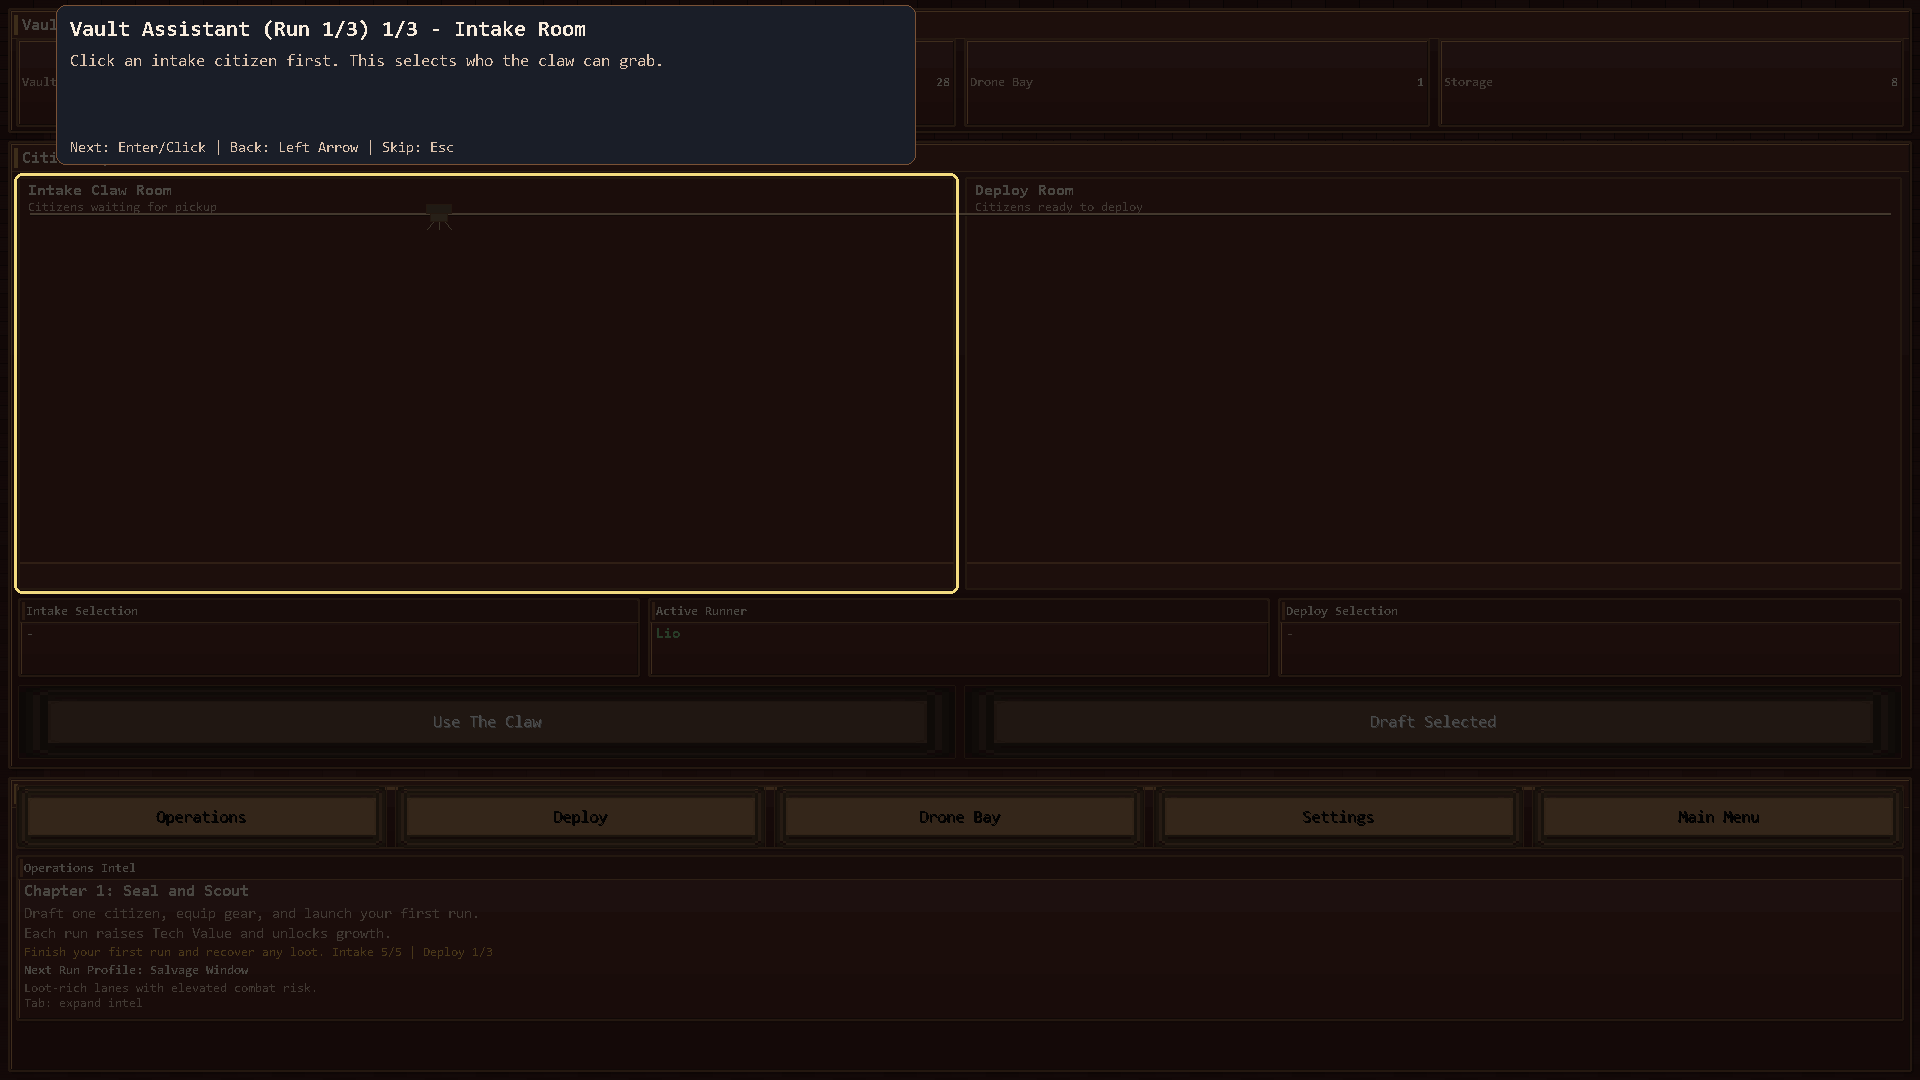
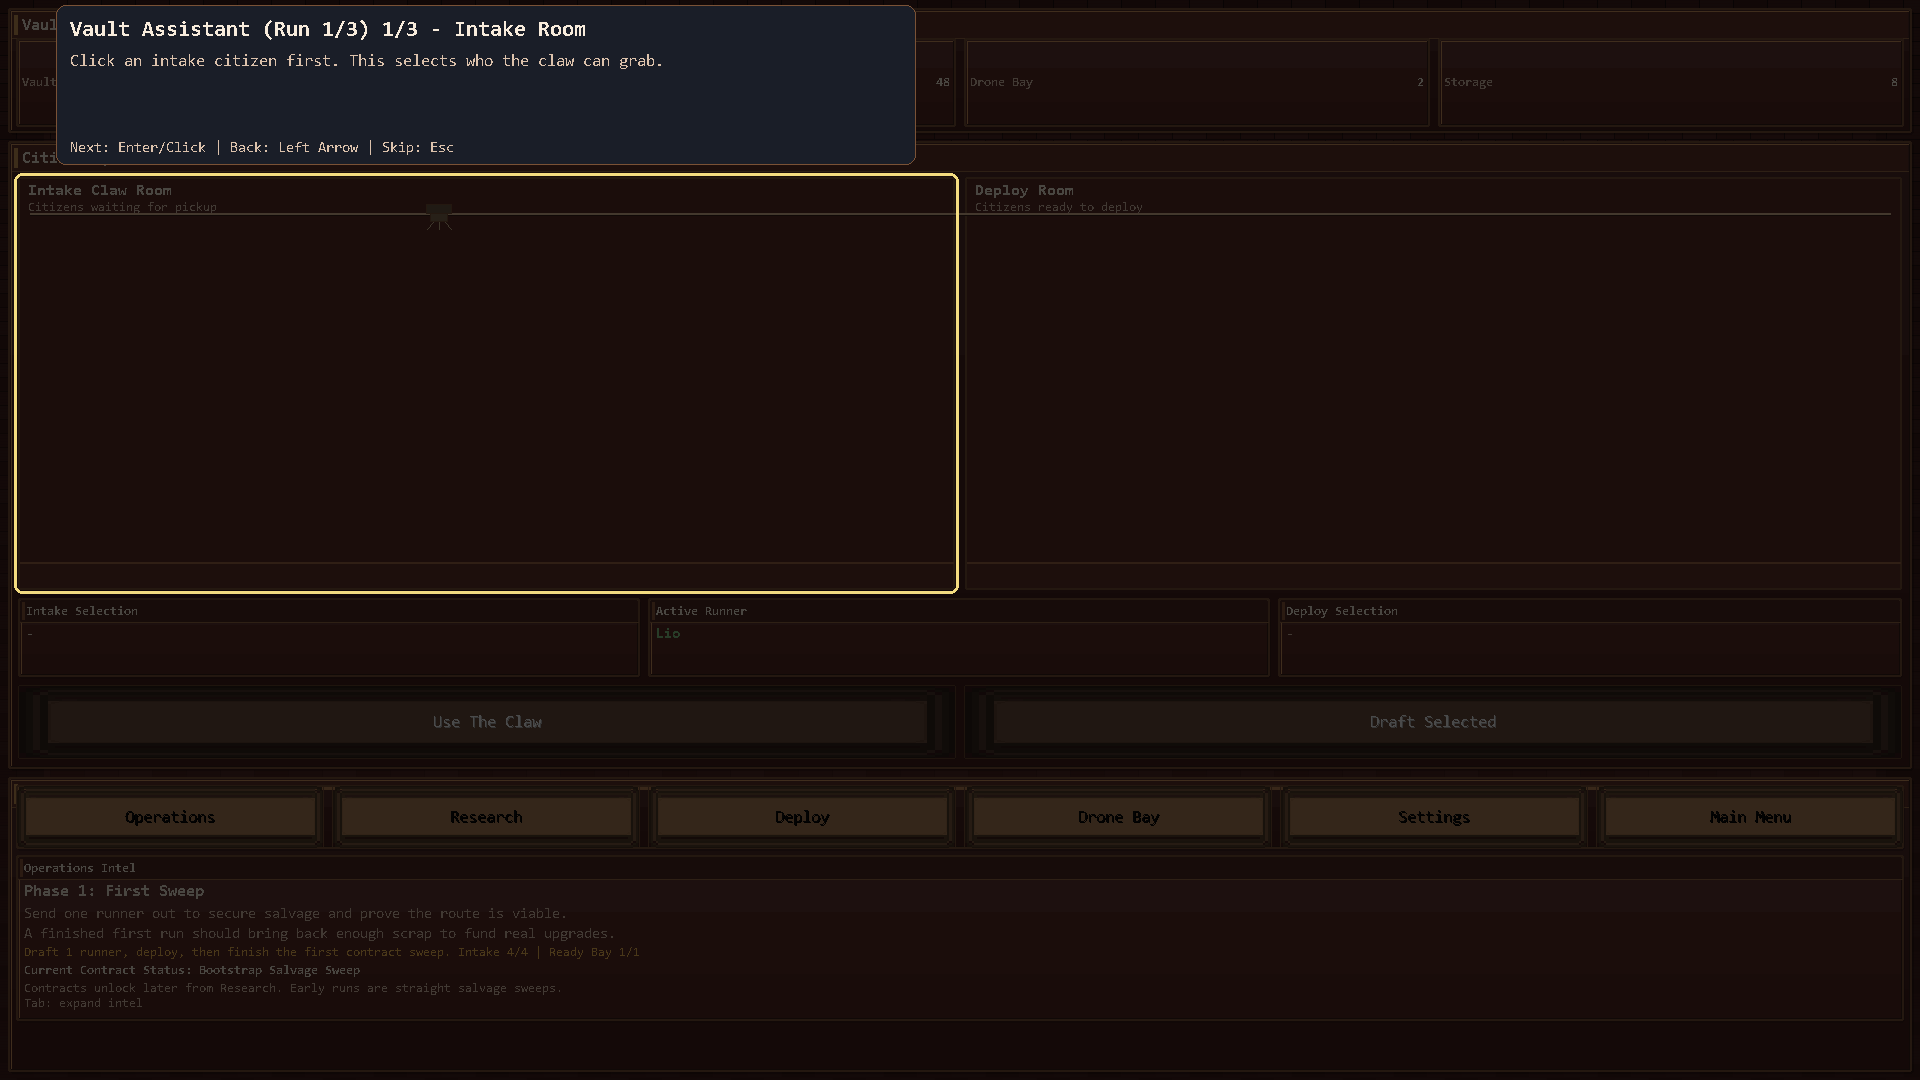
docs: refresh README with richer copy and expanded screenshot gallery

diff --git a/tools/generate_readme_screenshots.py b/tools/generate_readme_screenshots.py
@@ -1,19 +1,24 @@
 from __future__ import annotations
 
+import logging
 from pathlib import Path
 
 import pygame
 
 from bit_life_survival.app.scenes.base import BaseScene
+from bit_life_survival.app.scenes.briefing import BriefingScene
 from bit_life_survival.app.scenes.load_game import LoadGameScene
 from bit_life_survival.app.scenes.menu import MainMenuScene
 from bit_life_survival.app.scenes.operations import OperationsScene
+from bit_life_survival.app.scenes.research import ResearchScene
+from bit_life_survival.app.scenes.run import RunScene
 from bit_life_survival.app.services.saves import SaveService
 from bit_life_survival.app.ui import theme
 from bit_life_survival.app.ui.backgrounds import BackgroundRenderer
 from bit_life_survival.core.loader import load_content
 from bit_life_survival.core.models import EquippedSlots
 from bit_life_survival.core.persistence import create_default_save_data, transfer_selected_citizen_to_roster
+from bit_life_survival.core.research import buy_research
 from bit_life_survival.core.settings import default_settings
 
 
@@ -25,25 +30,30 @@ class AppStub:
         self.save_data = create_default_save_data(base_seed=2042)
         self.current_loadout = EquippedSlots()
         self.settings = default_settings()
+        self.settings["gameplay"]["tutorial_completed"] = True
+        self.settings["gameplay"]["replay_tutorial"] = False
         self.backgrounds = BackgroundRenderer()
         self.current_slot = 1
+        self.gameplay_logger = logging.getLogger("readme_screenshots")
 
         saves_dir = repo_root / ".tmp_readme_saves"
         saves_dir.mkdir(parents=True, exist_ok=True)
         self.save_service = SaveService(saves_dir, slot_count=3)
 
         slot1 = self.save_service.create_new_game(slot=1, base_seed=2042)
-        slot1.vault.tav = 28
-        slot1.vault.vault_level = 2
-        slot1.vault.upgrades["drone_bay_level"] = 1
-        slot1.vault.last_run_distance = 14.8
-        slot1.vault.last_run_time = 23
+        slot1.vault.tav = 48
+        slot1.vault.vault_level = 3
+        slot1.vault.upgrades["drone_bay_level"] = 2
+        slot1.vault.last_run_distance = 19.4
+        slot1.vault.last_run_time = 31
+        slot1.vault.materials["scrap"] = 420
+        slot1.vault.settings.seen_run_help = True
         self.save_service.save_slot(1, slot1)
 
         slot2 = self.save_service.create_new_game(slot=2, base_seed=3001)
-        slot2.vault.tav = 7
-        slot2.vault.last_run_distance = 5.4
-        slot2.vault.last_run_time = 12
+        slot2.vault.tav = 11
+        slot2.vault.last_run_distance = 6.7
+        slot2.vault.last_run_time = 14
         self.save_service.save_slot(2, slot2)
 
         self.save_data = slot1
@@ -76,6 +86,31 @@ def _save(surface: pygame.Surface, path: Path) -> None:
     pygame.image.save(surface, str(path))
 
 
+def _prime_research(vault) -> None:
+    vault.materials["scrap"] = 2400
+    progression = [
+        ("rationing", 2),
+        ("water_recycling", 1),
+        ("field_medicine", 1),
+        ("salvage_tools", 2),
+        ("route_caching", 1),
+        ("deep_contracts", 1),
+        ("intake_protocols", 2),
+        ("team_doctrine", 1),
+        ("drone_recovery_suite", 2),
+        ("drone_pathing", 1),
+        ("ops_planning", 2),
+        ("forward_command", 1),
+    ]
+    for node_id, target_level in progression:
+        for _ in range(target_level):
+            try:
+                buy_research(vault, node_id)
+            except ValueError:
+                break
+    vault.materials["scrap"] = max(160, int(vault.materials.get("scrap", 0)))
+
+
 def main() -> None:
     repo_root = Path(__file__).resolve().parents[1]
     theme.apply_theme("ember")
@@ -88,10 +123,17 @@ def main() -> None:
     menu.render(app, app.screen)
     _save(app.screen, screenshots_dir / "main-menu.png")
 
-    # Prep a drafted citizen for base + operations screenshots.
+    # Prep a drafted citizen for base + operations + run screenshots.
     drafted = transfer_selected_citizen_to_roster(app.save_data.vault, app.save_data.vault.citizen_queue[0].id)
     drafted.loadout.pack = "backpack_basic"
     drafted.loadout.armor = "armor_scrap"
+    drafted.loadout.utility1 = "water_pouch"
+    drafted.loadout.utility2 = "ration_pack"
+    drafted.kit = {
+        "water_pouch": 3,
+        "ration_pack": 2,
+        "medkit_small": 1,
+    }
     app.current_loadout = drafted.loadout.model_copy(deep=True)
     app.save_data.vault.current_citizen = drafted
     app.save_data.vault.active_deploy_citizen_id = drafted.id
@@ -107,6 +149,32 @@ def main() -> None:
     operations.on_enter(app)
     operations.render(app, app.screen)
     _save(app.screen, screenshots_dir / "operations-loadout.png")
+
+    # Mission briefing
+    briefing = BriefingScene(run_seed=app.compute_run_seed(), biome_id="suburbs")
+    briefing.render(app, app.screen)
+    _save(app.screen, screenshots_dir / "mission-briefing.png")
+
+    # Research command
+    _prime_research(app.save_data.vault)
+    research = ResearchScene()
+    research.render(app, app.screen)
+    _save(app.screen, screenshots_dir / "research-command.png")
+
+    # Run with inventory open (new UX)
+    run_scene = RunScene(run_seed=app.compute_run_seed(), biome_id="suburbs")
+    run_scene.on_enter(app)
+    run_scene.state.meters.stamina = 67.0
+    run_scene.state.meters.hydration = 54.0
+    run_scene.state.meters.morale = 71.0
+    run_scene.state.hunger = 58.0
+    run_scene.state.inventory["water_pouch"] = max(2, int(run_scene.state.inventory.get("water_pouch", 0)))
+    run_scene.state.inventory["ration_pack"] = max(2, int(run_scene.state.inventory.get("ration_pack", 0)))
+    run_scene.state.inventory["medkit_small"] = max(1, int(run_scene.state.inventory.get("medkit_small", 0)))
+    run_scene.inventory_overlay = True
+    run_scene.inventory_tab = "stats"
+    run_scene.render(app, app.screen)
+    _save(app.screen, screenshots_dir / "run-inventory.png")
 
     # Load game manager
     load_game = LoadGameScene()

diff --git a/README.md b/README.md
@@ -1,56 +1,80 @@
 # Vault Survival - Wraith's Version
 
-A polished **pygame roguelite prototype** with deterministic runs, persistent save slots, a new research-driven progression loop, and a rebuilt run UX.
+A pixel-survival roguelite where the Vault chooses you, locks the doors, and sends you out to bring value back.
+
+This version focuses on high-clarity progression: tighter run decisions, stronger mission identity, and a research tree that drives long-term growth without breaking the early game.
 
 ---
 
-## Screenshots
+## Why this version feels better
 
-### Main Command
+- Clear run purpose: you know why you are deploying, what you are chasing, and what deeper pushes unlock.
+- Stronger run gameplay: in-run inventory and actionable survival choices instead of passive button spam.
+- Progression that scales: research branches gate power and open contracts over time.
+- Better death loop: drone recovery explains exactly what came back and what was lost.
+- Cleaner state handling: dead runners never reappear as fake deploy-ready operators.
+
+---
+
+## Screenshot tour
+
+### Main Command Hub
 ![Main Menu](docs/screenshots/main-menu.png)
 
 ### Base Operations Deck
 ![Base Command](docs/screenshots/base-command.png)
 
-### Operations Loadout + Gear UX
+### Mission Briefing (Purpose + Risk + Reward)
+![Mission Briefing](docs/screenshots/mission-briefing.png)
+
+### Field Run with Inventory Overlay
+![Run Inventory](docs/screenshots/run-inventory.png)
+
+### Operations Loadout and Gear Prep
 ![Operations Loadout](docs/screenshots/operations-loadout.png)
+
+### Research Command Tree
+![Research Command](docs/screenshots/research-command.png)
 
 ### Save Slot Manager (Load + Delete)
 ![Load Game](docs/screenshots/load-game.png)
 
 ---
 
-## Full Sweep Overhaul
+## Core gameplay loop
 
-This branch now includes:
+`Main Menu -> New/Load -> Base -> Research / Operations / Drone Bay -> Briefing -> Run -> Recovery -> Repeat`
 
-1. **No-retreat run flow** in the standard loop. Runs now push toward extraction checkpoints instead of retreating early.
-2. **Field inventory overlay** with consumables, gear summary, stats, and mission progress (`I` in-run).
-3. **Hunger system** layered into the run loop with less oppressive dehydration pacing.
-4. **Research Command scene** with five branches, dependencies, max level 5, and scrap-based costs that rise by `+20` each level.
-5. **Deployment starts at exactly one runner** and expands later through research.
-6. **Field contracts unlock later** through research instead of appearing immediately.
-7. **Drone recovery redesign** with a ~20% baseline for carried loot, deeper-run risk, and clearer recovered vs lost reporting.
-8. **Runner state fixes** so dead runners are moved out of deploy-ready paths and never appear ready in the bay.
-9. **Stronger mission clarity** in Base, Briefing, Run, and result screens.
-10. **Updated progression pacing** centered on finishing the campaign through research + TAV growth.
+You are building toward campaign completion by growing TAV, unlocking contracts, and investing scrap into research branches.
 
 ---
 
-## Core Flow
+## Major systems in this build
 
-`Intro -> Main Menu -> New/Load -> Base -> Research / Operations / Drone Bay -> Briefing -> Run -> Result`
+1. No-retreat standard run flow
+   - Runs push toward extraction checkpoints and objective completion.
 
----
+2. In-run inventory (`I`)
+   - Tabs for consumables, gear, stats, and mission tracking.
+   - Field use actions for food, water, aid, and utility handling.
 
-## Quickstart (Windows)
+3. Survival pressure tuning
+   - Hunger is now part of run pressure.
+   - Hydration pacing is less oppressive and more readable.
 
-1. Create venv
-   - `py -3.11 -m venv .venv`
-2. Install deps
-   - `.venv\Scripts\python -m pip install -r requirements.txt`
-3. Run game
-   - `.venv\Scripts\python -m bit_life_survival.app.main`
+4. Research Command
+   - Five branches with dependencies and max level 5 nodes.
+   - Cost formula rises by `+20 scrap` each level.
+   - Deploy capacity starts at 1 and expands through research.
+   - Contract routes unlock later through research progression.
+
+5. Drone recovery redesign
+   - Baseline recovery starts low and scales with drone upgrades.
+   - Recovery report clearly shows recovered loot vs losses.
+
+6. Runner state reliability
+   - Fallen operators are moved out of deploy-ready paths.
+   - No ghost runner bug after death.
 
 ---
 
@@ -67,30 +91,44 @@ This branch now includes:
 - `H` Help
 
 ### Operations
-- Top tabs: `Loadout / Equippable / Storage / Crafting`
+- Tabs: `Loadout / Equippable / Storage / Crafting`
 - Actions: `E` Equip Selected, `B` Equip Best, `A` Equip All, `D` Deploy, `Esc` Back
 
 ### Run
 - `C` Continue
-- `L` Log
 - `I` Inventory
 - `E` Quick Aid
+- `L` Log
 - `X` Extract
-- `Q` Quit
 - `H` Help
+- `Q` Quit
 
 ---
 
-## Utility Scripts
+## Quickstart (Windows)
 
-- One-click launcher: `tools\run_game.cmd`
+1. Create venv
+   - `py -3.11 -m venv .venv`
+2. Install deps
+   - `.venv\Scripts\python -m pip install -r requirements.txt`
+3. Launch
+   - `.venv\Scripts\python -m bit_life_survival.app.main`
+
+Quick launcher:
+- `Launch_Vault_Survival.bat`
+
+---
+
+## Utility scripts
+
+- One-click runner: `tools\run_game.cmd`
 - Desktop shortcut installer: `powershell -ExecutionPolicy Bypass -File tools\install_shortcut.ps1`
-- Screenshot generator (README assets):
+- Refresh README screenshots:
   - `.venv\Scripts\python tools\generate_readme_screenshots.py`
 
 ---
 
-## Data Paths (Windows)
+## Data paths (Windows)
 
 - Install target: `C:\BitLifeSurvival\Vault_Bit_Survival\`
 - Runtime data default: `C:\BitLifeSurvival\`
@@ -98,7 +136,7 @@ This branch now includes:
   - Logs: `C:\BitLifeSurvival\logs`
   - Config: `C:\BitLifeSurvival\config`
 
-Fallback order when `C:\BitLifeSurvival` is unavailable:
+Fallback order if `C:\BitLifeSurvival` is unavailable:
 1. `%LOCALAPPDATA%\BitLifeSurvival`
 2. `%USERPROFILE%\BitLifeSurvival`
 
